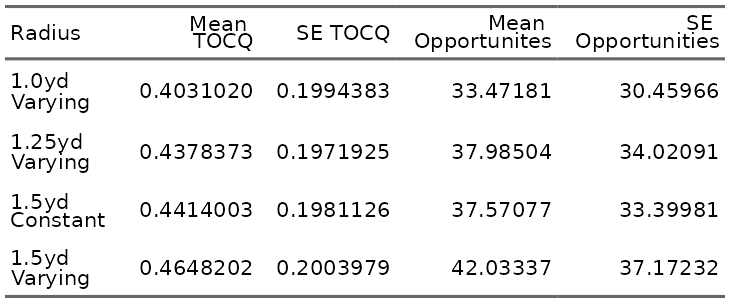
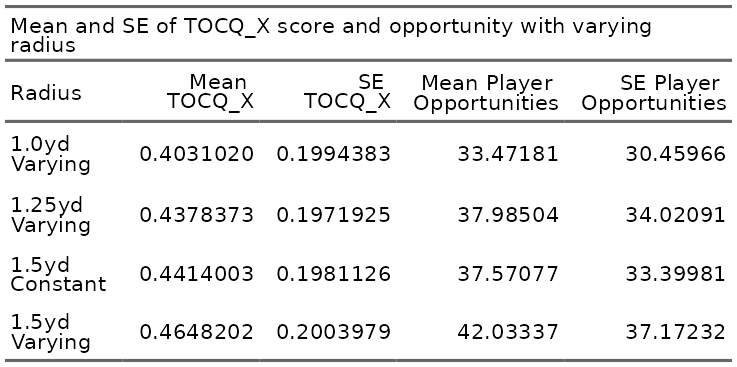
Team Sensitivity Analysis

diff --git a/Duke MSS/Figures And Tables/README.md b/Duke MSS/Figures And Tables/README.md
@@ -12,4 +12,5 @@ This folder contains Figures and Tables for my Duke MSS portfolio project. These
 8.  `HalfSeasonTeamPositionGroup.png`: The heatmap of the team half-season TOCQ scores by position group, ratio relative to position group league average.
 9.  `SensitivityAnalysisN.png`: The density of tackle opportunities altering the tackle zone radius.
 10.  `SensitivityAnalysisTOCQ.png`: The density of TOCQ scores altering the tackle zone radius.
-11.  `SensitivityTable.png`: The mean and SE opportunities and TOCQ scores altering the tackle zone radius.
+11.  `SensitivityTable.png`: The mean and SE player opportunities and TOCQ_X scores altering the tackle zone radius.
+12.  `SensitivityTableTeam.png`: The mean and SE team opportunities and TOCQ_T scores altering the tackle zone radius.
